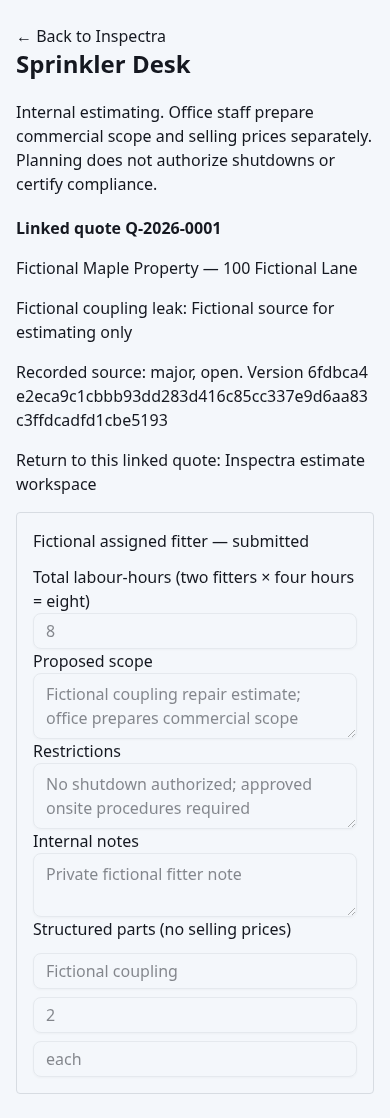
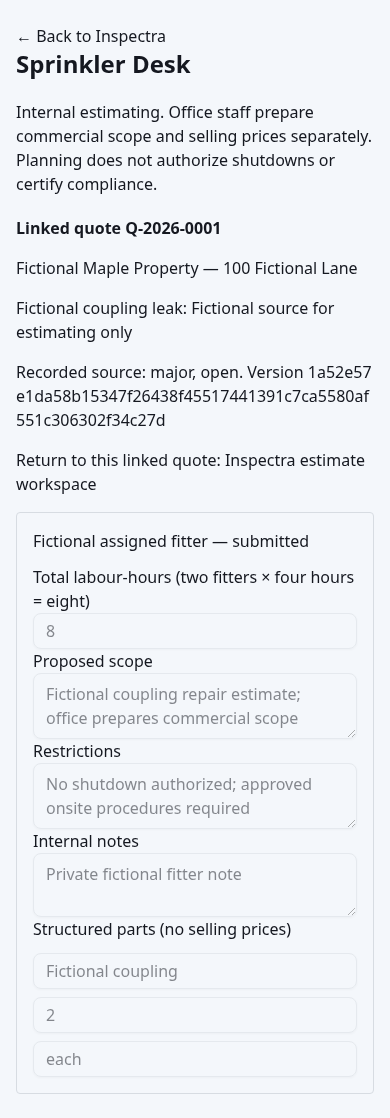
fix: intersect delegated fitter access with verified Inspectra permissions

Changed region(s): [[0.0308, 0.3041, 0.9538, 0.3953]]

diff --git a/server/ewfIntegration.test.ts b/server/ewfIntegration.test.ts
@@ -69,12 +69,12 @@ describe("Sprinkler Desk integration boundary", () => {
   it("guards parents and derives company/user/context; source changes reject reviewed hash without network writes", async () => {
     const c = caller();
     const source = await c.ewf.source({
-      accountScope: "1:7",
+      accountScope: "1:7:office",
       siteId: 10,
       deficiencyId: 20,
     });
     await c.ewf.open({
-      accountScope: "1:7",
+      accountScope: "1:7:office",
       siteId: 10,
       deficiencyId: 20,
       reviewedSourceHash: source.hash,
@@ -83,7 +83,7 @@ describe("Sprinkler Desk integration boundary", () => {
     expect(getDeficiencyForCompany).toHaveBeenCalledWith(20, 7);
     expect(ewfCommand).toHaveBeenCalledWith(
       expect.objectContaining({ companyId: 7 }),
-      1,
+      expect.objectContaining({ id: 1, role: "office" }),
       source.source,
       "open",
       expect.objectContaining({ reviewedSourceHash: source.hash })
@@ -95,7 +95,7 @@ describe("Sprinkler Desk integration boundary", () => {
     } as any);
     await expect(
       c.ewf.open({
-        accountScope: "1:7",
+        accountScope: "1:7:office",
         siteId: 10,
         deficiencyId: 20,
         reviewedSourceHash: source.hash,
@@ -106,14 +106,14 @@ describe("Sprinkler Desk integration boundary", () => {
   it("customer and technician cannot create links; parent denial, missing parents, mismatched property/org prevent integration calls", async () => {
     await expect(
       caller("customer", null).ewf.read({
-        accountScope: "1:7",
+        accountScope: "1:7:office",
         siteId: 10,
         deficiencyId: 20,
       })
     ).rejects.toThrow();
     await expect(
       caller("technician").ewf.source({
-        accountScope: "1:7",
+        accountScope: "1:7:office",
         siteId: 10,
         deficiencyId: 20,
       })
@@ -122,13 +122,21 @@ describe("Sprinkler Desk integration boundary", () => {
       new Error("Cross company denied")
     );
     await expect(
-      caller().ewf.read({ accountScope: "1:7", siteId: 10, deficiencyId: 20 })
+      caller().ewf.read({
+        accountScope: "1:7:office",
+        siteId: 10,
+        deficiencyId: 20,
+      })
     ).rejects.toThrow("Cross company");
     vi.mocked(getDeficiencyForCompany).mockRejectedValueOnce(
       new Error("Missing deficiency")
     );
     await expect(
-      caller().ewf.read({ accountScope: "1:7", siteId: 10, deficiencyId: 20 })
+      caller().ewf.read({
+        accountScope: "1:7:office",
+        siteId: 10,
+        deficiencyId: 20,
+      })
     ).rejects.toThrow("Missing deficiency");
     vi.mocked(getJobForCompany).mockResolvedValue({
       id: 40,
@@ -137,19 +145,23 @@ describe("Sprinkler Desk integration boundary", () => {
       customerOrgId: 30,
     } as any);
     await expect(
-      caller().ewf.read({ accountScope: "1:7", siteId: 10, deficiencyId: 20 })
+      caller().ewf.read({
+        accountScope: "1:7:office",
+        siteId: 10,
+        deficiencyId: 20,
+      })
     ).rejects.toThrow("does not belong");
     expect(ewfCommand).not.toHaveBeenCalled();
   });
   it("technician commands use their mapped identity and platform admin still needs an explicit target-company binding", async () => {
     await caller("technician").ewf.read({
-      accountScope: "1:7",
+      accountScope: "1:7:technician",
       siteId: 10,
       deficiencyId: 20,
     });
     expect(ewfCommand).toHaveBeenCalledWith(
       expect.anything(),
-      1,
+      expect.objectContaining({ id: 1, role: "technician" }),
       expect.objectContaining({ companyId: 7 }),
       "read",
       {}
@@ -157,11 +169,38 @@ describe("Sprinkler Desk integration boundary", () => {
     vi.stubEnv("EWF_INTEGRATION_BINDINGS", "[]");
     await expect(
       caller("admin", null).ewf.read({
-        accountScope: "1:null",
+        accountScope: "1:null:admin",
         siteId: 10,
         deficiencyId: 20,
       })
     ).rejects.toThrow("No reviewed company");
+  });
+  it("technician office commands and role-stale cache contexts fail before delegation", async () => {
+    await expect(
+      caller("technician").ewf.command({
+        accountScope: "1:7:technician",
+        siteId: 10,
+        deficiencyId: 20,
+        command: {
+          action: "review",
+          payload: {
+            estimateId: "11111111-1111-4111-8111-111111111111",
+            row_version: 0,
+            quote_row_version: 0,
+            reviewed: true,
+            review_note: "Fictional",
+          },
+        },
+      })
+    ).rejects.toThrow("Office estimate management");
+    await expect(
+      caller("technician").ewf.read({
+        accountScope: "1:7:office",
+        siteId: 10,
+        deficiencyId: 20,
+      })
+    ).rejects.toThrow("Account context changed");
+    expect(ewfCommand).not.toHaveBeenCalled();
   });
   it("default-off and unsafe endpoint configuration fail closed", () => {
     vi.stubEnv("EWF_INTEGRATION_ENABLED", "false");

diff --git a/server/routers/ewfRouter.ts b/server/routers/ewfRouter.ts
@@ -3,7 +3,11 @@ import { deficiencies, jobs } from "../../drizzle/schema";
 import { and, eq } from "drizzle-orm";
 import { z } from "zod";
 import { TRPCError } from "@trpc/server";
-import { router, officeProcedure, technicianProcedure } from "../_core/trpc";
+import {
+  router,
+  officeProcedure as baseOfficeProcedure,
+  technicianProcedure as baseTechnicianProcedure,
+} from "../_core/trpc";
 import {
   assertSiteCompany,
   getDeficiencyForCompany,
@@ -13,21 +17,21 @@ import { ewfBinding, ewfCommand, sourceHash } from "../ewfIntegration";
 const accountInput = z.object({ accountScope: z.string().max(100) });
 const verifyScope = (
   scope: string,
-  user: { id: number; companyId: number | null }
+  user: { id: number; companyId: number | null; role: string }
 ) => {
-  if (scope !== `${user.id}:${user.companyId}`)
+  if (scope !== `${user.id}:${user.companyId}:${user.role}`)
     throw new TRPCError({
       code: "FORBIDDEN",
       message: "Account context changed",
     });
 };
-const office = officeProcedure
+const officeProcedure = baseOfficeProcedure
   .input(accountInput)
   .use(({ ctx, input, next }) => {
     verifyScope(input.accountScope, ctx.user);
     return next();
   });
-const technician = technicianProcedure
+const technicianProcedure = baseTechnicianProcedure
   .input(accountInput)
   .use(({ ctx, input, next }) => {
     verifyScope(input.accountScope, ctx.user);
@@ -133,11 +137,11 @@ const command = z.discriminatedUnion("action", [
   }),
 ]);
 export const ewfRouter = router({
-  properties: office.query(async ({ ctx }) => {
+  properties: officeProcedure.query(async ({ ctx }) => {
     if (!ctx.user.companyId) return [];
     return getSitesByCompany(ctx.user.companyId);
   }),
-  deficiencies: office
+  deficiencies: officeProcedure
     .input(z.object({ siteId: z.number().int().positive() }))
     .query(async ({ ctx, input }) => {
       const site = await assertSiteCompany(input.siteId, ctx.user.companyId!);
@@ -147,10 +151,16 @@ export const ewfRouter = router({
         .select({ id: deficiencies.id, title: deficiencies.title })
         .from(deficiencies)
         .innerJoin(jobs, eq(deficiencies.jobId, jobs.id))
-        .where(and(eq(jobs.siteId, input.siteId),eq(jobs.companyId,site.companyId),eq(jobs.customerOrgId,site.customerOrgId)));
+        .where(
+          and(
+            eq(jobs.siteId, input.siteId),
+            eq(jobs.companyId, site.companyId),
+            eq(jobs.customerOrgId, site.customerOrgId)
+          )
+        );
       return rows;
     }),
-  source: office.input(ids).query(async ({ ctx, input }) => {
+  source: officeProcedure.input(ids).query(async ({ ctx, input }) => {
     const source = await ewfSource(
       input.siteId,
       input.deficiencyId,
@@ -158,7 +168,7 @@ export const ewfRouter = router({
     );
     return { source, hash: sourceHash(source) };
   }),
-  open: office
+  open: officeProcedure
     .input(
       ids.extend({
         reviewedSourceHash: z.string().length(64),
@@ -179,7 +189,7 @@ export const ewfRouter = router({
         });
       return ewfCommand(
         ewfBinding(source.companyId),
-        ctx.user.id,
+        ctx.user,
         source,
         "open",
         {
@@ -190,7 +200,7 @@ export const ewfRouter = router({
         }
       );
     }),
-  read: technician.input(ids).query(async ({ ctx, input }) => {
+  read: technicianProcedure.input(ids).query(async ({ ctx, input }) => {
     const source = await ewfSource(
       input.siteId,
       input.deficiencyId,
@@ -198,16 +208,24 @@ export const ewfRouter = router({
     );
     return ewfCommand(
       ewfBinding(source.companyId),
-      ctx.user.id,
+      ctx.user,
       source,
       "read",
       {}
     );
   }),
-  command: technician
+  command: technicianProcedure
     .input(ids.extend({ command }))
     .mutation(async ({ ctx, input }) => {
       // EWF additionally requires the exact active mapped fitter assignment; no changes to Inspectra offline sync permissions.
+      if (
+        ctx.user.role === "technician" &&
+        ["assign", "review"].includes(input.command.action)
+      )
+        throw new TRPCError({
+          code: "FORBIDDEN",
+          message: "Office estimate management required",
+        });
       const source = await ewfSource(
         input.siteId,
         input.deficiencyId,
@@ -215,7 +233,7 @@ export const ewfRouter = router({
       );
       return ewfCommand(
         ewfBinding(source.companyId),
-        ctx.user.id,
+        ctx.user,
         source,
         input.command.action,
         input.command.payload

diff --git a/server/ewfIntegration.ts b/server/ewfIntegration.ts
@@ -51,12 +51,23 @@ export function ewfBinding(companyId: number): EwfBinding {
 }
 export async function ewfCommand(
   binding: EwfBinding,
-  actorId: number,
+  actor: { id: number; role: string },
   source: unknown,
   action: string,
   payload: unknown
 ) {
-  const body = { actorId, source, action, payload },
+  if (!["admin", "office", "technician"].includes(actor.role))
+    throw new TRPCError({
+      code: "FORBIDDEN",
+      message: "Verified staff identity required",
+    });
+  const body = {
+      actorId: actor.id,
+      actorKind: actor.role === "technician" ? "technician" : "office",
+      source,
+      action,
+      payload,
+    },
     time = String(Date.now()),
     nonce = randomUUID();
   const signature = createHmac("sha256", binding.key)

diff --git a/client/src/pages/SprinklerDesk.tsx b/client/src/pages/SprinklerDesk.tsx
@@ -18,10 +18,10 @@ export default function SprinklerDesk({
   const { user } = useAuth();
   const desk = (
     <Desk
-      key={`${user?.id}:${user?.companyId}:${siteId}:${deficiencyId}`}
+      key={`${user?.id}:${user?.companyId}:${user?.role}:${siteId}:${deficiencyId}`}
       siteId={siteId}
       deficiencyId={deficiencyId}
-      accountScope={`${user?.id}:${user?.companyId}`}
+      accountScope={`${user?.id}:${user?.companyId}:${user?.role}`}
       office={user?.role === "admin" || user?.role === "office"}
     />
   );

diff --git a/docs/integrations/EWF_SPRINKLER_DESK.md b/docs/integrations/EWF_SPRINKLER_DESK.md
@@ -156,7 +156,7 @@ Fictional screenshots: [submitted fitter](screenshots/fictional-fitter-submitted
 | Passed | EWF final regressions | 185 tests on Node22.23.3 and24.19.0; zero skips/failures |
 | Passed | EWF browser/PWA | All ten existing Chromium scripts; fictional desktop/mobile/permissions/private cache/offline/document workflows |
 | Passed | Cross-app browser | Real Inspectra and EWF services, isolated MySQL/SQLite; 8 hours, parts, saved/submitted/reviewed content, return link and account/customer denial; 390px viewport |
-| Passed | Inspectra final tests | 119 files / 1,248 tests, zero failures |
+| Passed | Inspectra final tests | 119 files / 1,249 tests, zero failures |
 | Skipped | Existing Inspectra tests | 14 tests in four files: S3-dependent, disabled Phase2, existing auto-mapping |
 | Passed | Inspectra check/build/smoke | Typecheck, production build and isolated built health/UI; existing build warnings |
 | Passed | Tenant audit | 61 router files / zero active findings / two reviewed exceptions |
@@ -185,3 +185,13 @@ operational/financial records; this release does not merge, copy or total the tw
 ledgers. Historical consolidation, duplicate matching and shared reporting need
 separate reviewed ownership/reconciliation decisions. A configured tenant cannot
 be relabeled after retained property mappings exist.
+
+The signed actor classification is derived only from the authenticated Inspectra
+server context; browser roles are never accepted. Technician delegation requires
+an EWF technician account and explicit fitter assignment, even if an operator
+misconfigured a privileged account map. Assign/review additionally require
+Inspectra office permission. Cached private queries and form state include role
+as well as user/company identity.
+
+Existing-draft linking currently requires exactly one matching EWF deficiency.
+Multi-deficiency quote correspondence needs an expanded reviewed source contract.

diff --git a/docs/PRODUCTION_READINESS.md b/docs/PRODUCTION_READINESS.md
@@ -207,7 +207,7 @@ authoritative SQLite service. No production database/volume/settings changed.
 | Whole-suite consolidation | In progress | First quote/fitter workflow only. Approval/WO/scheduling/visits/billing/stock/equipment/report adapters remain future phases |
 | Production recovery | Open | Inspectra PR18 deployment failed; this integration does not repair or verify live schema. No integration activation until independently recovered and approved |
 
-Validation: 1,248 Inspectra tests passed /14 skipped; EWF185 tests passed on
+Validation: 1,249 Inspectra tests passed /14 skipped; EWF185 tests passed on
 Node22.23.3/24.19.0; all ten EWF browser/PWA checks and real cross-app mobile
 workflow passed. Inspectra typecheck/build/isolated smoke and strict tenant audit
 (61 routers,0 active findings,2 reviewed exceptions) passed. EWF dependency audit
